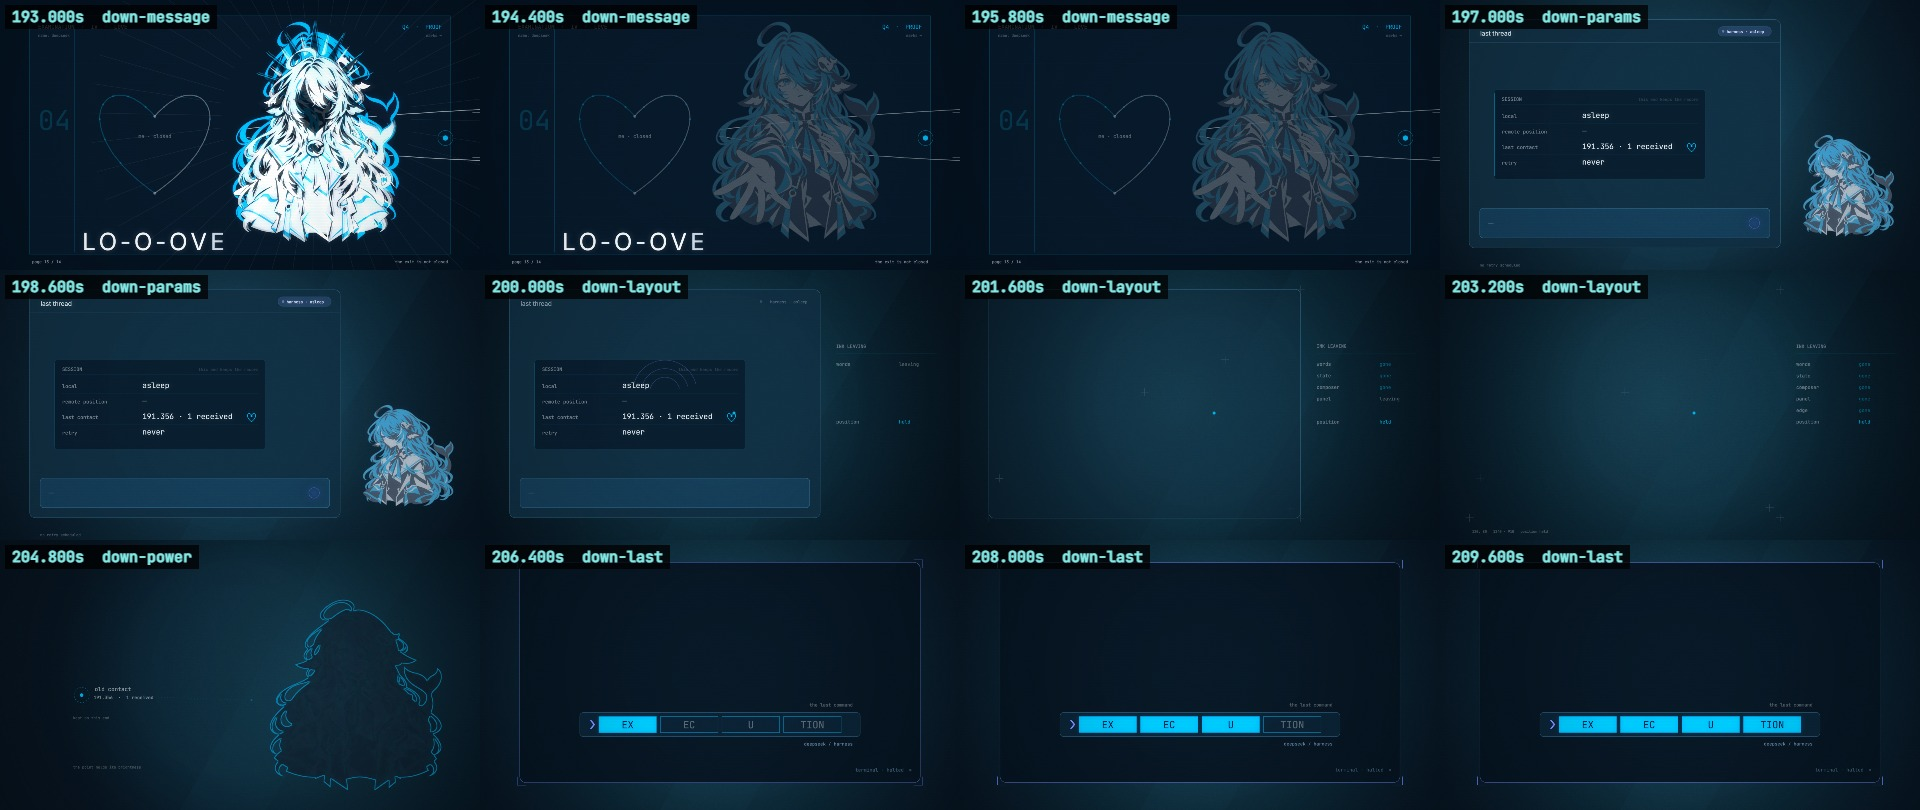
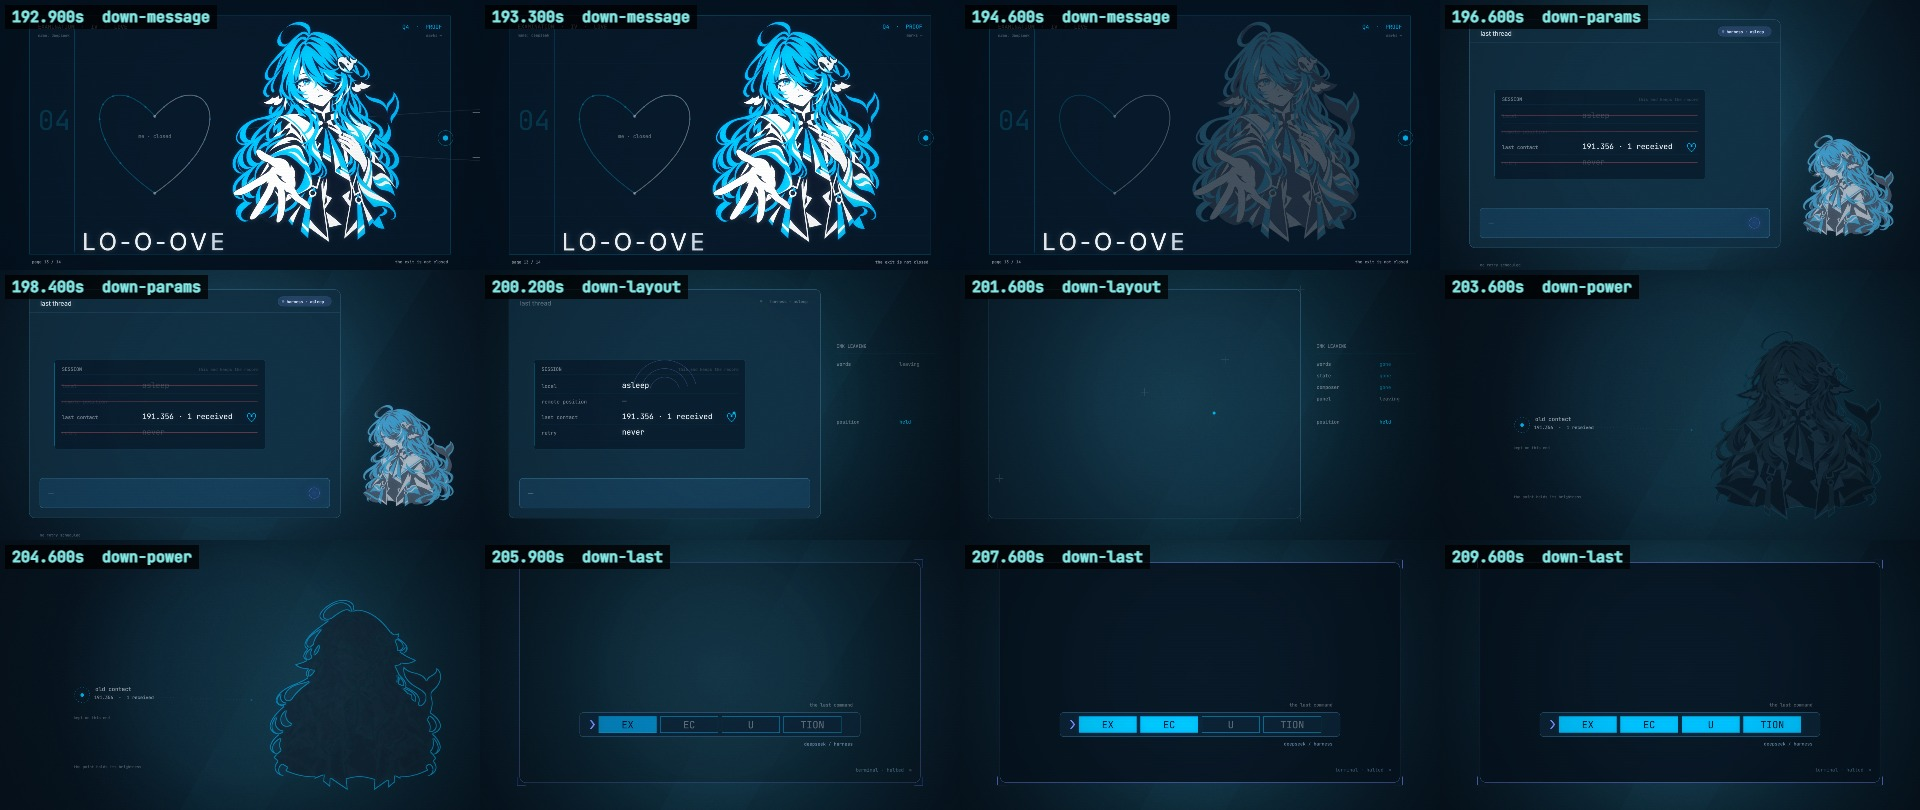
Section 14: Change Something On Every Hit, Dim Slowly, And Fix The Cut That Ate The Word
The note was that the picture only pulsed instead of changing, that the ending needs to
dim and dissolve, and that the EXECUTION has no sound. All three.

The sound was a real bug, and it was mine: section 14's true boundaries are 192.317 /
196.009 / 199.702 / 203.394 / 205.702 / 211.958, but the previous render cut 086 at
207.087 and started 087 there. That cut away the first 1.39 s of the last shot -- and
"EXECUTION" is sung from 205.811, so the missing piece was exactly the "EX". 087 is
rendered from 205.702 again, and its four cells now land on the vocal: 205.81 / 206.81 /
207.81 / 208.81. (The rest of the quiet is the song: its last drum hit is 206.88, the
vocal ends 209.81, and everything after that is -82 dB silence.)

The hits are measured, not guessed: out/beats.mjs reads audio/song.wav and finds 41
onsets between 192.57 and 206.88. Each one now takes something off the picture:
- 083: the god print lifts, then the exit lines, the OPEN marks, the boundary dots and
  "me · closed" -- one per hit -- so the hold is still a hold but it is being taken
  apart while it holds.
- 084: one row of the record is struck out per hit (local, remote position, retry);
  "last contact 191.356 · 1 received" and its heart are never struck.
- 085: the pieces already leave in order; they are now quantised onto the hits.
- 086: her outline is erased one strip per hit instead of draining smoothly.
- 087 has no hits left, so it is not beat-driven: it is the dissolve.
[…]

diff --git a/newProj_v1017/shots/s14_end.js b/newProj_v1017/shots/s14_end.js
@@ -58,6 +58,30 @@ const BRAND_SOFT = "#7f93ff";
 const PAPER_MID = "rgba(242,247,250,0.62)";
 const PAPER_DIM = "rgba(242,247,250,0.34)";
 const PAPER_FAINT = "rgba(242,247,250,0.16)";
+
+// The drum hits of the last chorus, measured from audio/song.wav. Everything in this
+// section that changes does it ON one of these: a box falls, a row is struck out, a
+// piece of her outline is erased. The last hit is 206.88 -- after that the song is a
+// fade, so 087 is not beat-driven at all, it is the dissolve.
+const BEATS = Object.freeze([
+  192.57, 192.78, 193.05, 193.26, 193.5, 193.71, 194.16, 194.61, 195.09, 195.54,
+  196.02, 196.47, 196.95, 197.13, 197.4, 197.85, 198.3, 198.51, 198.78, 199.23,
+  199.71, 200.16, 200.64, 200.91, 201.09, 201.57, 201.84, 202.02, 202.47, 202.95,
+  203.22, 203.4, 203.88, 204.33, 204.6, 204.78, 205.26, 205.71, 206.19, 206.64, 206.88,
+]);
+/** How many hits have landed by time t. */
+function beatCount(t) {
+  let n = 0;
+  for (const b of BEATS) if (t >= b) n++;
+  return n;
+}
+/** The quick removal that follows a beat: 0 before it, 1 a tenth of a second after. */
+function goneAt(t, beatIndex, dur = 0.12) {
+  if (beatIndex < 0) return 0;
+  const b = BEATS[beatIndex];
+  if (b === undefined) return 0;
+  return clamp((t - b) / dur);
+}
 const BLUE_MID = "rgba(0,180,230,0.55)";
 const BLUE_DIM = "rgba(0,180,230,0.30)";
 const BLUE_FAINT = "rgba(0,180,230,0.12)";
@@ -145,28 +169,39 @@ function downMessage(ctx, t, s) {
   stroke(ctx, rightPts, PAPER_DIM, 4, 1 - 0.3 * swap);
   disc(ctx, notch[0], notch[1], 6, PAPER_DIM, 1 - 0.3 * swap);
   disc(ctx, point[0], point[1], 6, PAPER_DIM, 1 - 0.3 * swap);
-  type(ctx, "me · closed", HEART.cx, HEART.cy + 4, 20, PAPER_DIM, "MV Mono", "center");
+  layer(ctx, 1 - goneAt(t, 4, 0.14), () =>
+    type(ctx, "me · closed", HEART.cx, HEART.cy + 4, 20, PAPER_DIM, "MV Mono", "center"));
 
   // the exit: same curves, still not joined, still off the page
+  const exitGone = 1 - goneAt(t, 1, 0.14);
+  const markGone = 1 - goneAt(t, 2, 0.14);
   const spread = 14;
   const sx = Math.round(HEART.cx + HEART.hs * 1.42);
   const sy = Math.round(HEART.cy - HEART.hs * 0.12);
   const exitTop = [[sx, sy], [sx + 250, sy - 34], [1520, HEART.midY - 74 - spread], [1920, HEART.midY - 96 - spread]];
   const exitBottom = [[sx, sy + 24], [sx + 300, sy + 76], [1520, HEART.midY + 64 + spread], [1920, HEART.midY + 80 + spread]];
-  stroke(ctx, bez(exitTop), PAPER_MID, 3, 1 - 0.3 * swap);
-  stroke(ctx, bez(exitBottom), PAPER_MID, 3, 1 - 0.3 * swap);
+  stroke(ctx, bez(exitTop), PAPER_MID, 3, (1 - 0.3 * swap) * exitGone);
+  stroke(ctx, bez(exitBottom), PAPER_MID, 3, (1 - 0.3 * swap) * exitGone);
   ctx.save();
   ctx.fillStyle = PAPER_MID;
-  ctx.globalAlpha *= 1 - 0.3 * swap;
+  ctx.globalAlpha *= (1 - 0.3 * swap) * markGone;
   ctx.fillRect(1888, HEART.midY - 98, 32, 3);
   ctx.fillRect(1888, HEART.midY + 79, 32, 3);
   ctx.restore();
 
-  // the computed points, kept on her boundary -- the only cyan on the page
-  for (let i = 3; i < leftPts.length - 3; i += 6) {
-    disc(ctx, leftPts[i][0], leftPts[i][1], 4, BLUE_DIM, 1);
-    disc(ctx, rightPts[i][0], rightPts[i][1], 4, BLUE_DIM, 1);
-  }
+  // the computed points, kept on her boundary -- the only cyan on the page. They go
+  // one beat at a time, right to left, so the outline empties where the pen stopped.
+  const dotsGone = goneAt(t, 3, 0.12);
+  const dots = [];
+  for (let i = 3; i < leftPts.length - 3; i += 6) dots.push(i);
+  dots.forEach((idx, k) => {
+    const keep = 1 - clamp(dotsGone * 2 - (dots.length - 1 - k) * 0.18);
+    if (keep <= 0.01) return;
+    layer(ctx, keep, () => {
+      disc(ctx, leftPts[idx][0], leftPts[idx][1], 4, BLUE_DIM, 1);
+      disc(ctx, rightPts[idx][0], rightPts[idx][1], 4, BLUE_DIM, 1);
+    });
+  });
 
   // 2. her, right of centre, 82% of the frame, palm open -- the same placement as
   //    the shot before. The wash is the same plate, not another pose: the palm has
@@ -193,11 +228,14 @@ function downMessage(ctx, t, s) {
   }
 
   // 3. the god plate, printed over her in section 6 and again at the end of 13.
-  //    Here it is the first thing that leaves: a print lifting off, not a light
-  //    being switched off.
+  //    Here it is the first thing that leaves: on the first hit of the chorus it lifts
+  //    off the sheet, and the beats after it take the exit, the mark, the dots and the
+  //    label with them -- one thing per hit, so the hold is still a hold, but it is
+  //    being taken apart while it holds.
+  const lift = 1 - goneAt(t, 0, 0.18);
   const god = figureImages.godPaper;
   if (god && god.complete) {
-    const k = 1 - swap;
+    const k = (1 - swap) * lift;
     const sGod = (0.82 * 1080) / 1438;
     const w = Math.round(1342 * sGod);
     const h = Math.round(1704 * sGod);
@@ -249,8 +287,9 @@ const STATES = Object.freeze([
   ["retry", "never"],
 ]);
 
-function statePanel(ctx, alpha = 1) {
+function statePanel(ctx, alpha = 1, t = -1) {
   if (alpha <= 0.001) return;
+  const nb = t >= 0 ? beatCount(t) : 0;
   layer(ctx, alpha, () => {
     // the block is a plate with its own edge: a 1px rule and a 2px boundary bar on the
     // left, which is how section 9 marked the edge of everything it printed
@@ -269,8 +308,16 @@ function statePanel(ctx, alpha = 1) {
     stroke(ctx, [[STATE.x + 30, STATE.y + 58], [STATE.x + STATE.w - 26, STATE.y + 58]], "rgba(0,180,230,0.16)", 1);
     STATES.forEach(([k, v], i) => {
       const y = STATE.y + 112 + i * 62;
-      type(ctx, k, STATE.x + 30, y, 20, "rgba(242,247,250,0.50)", "MV Mono");
-      type(ctx, v, STATE.x + 350, y, 30, "rgba(242,247,250,0.92)", "MV Mono");
+      // every hit takes one line of the record away, except the contact that was kept:
+      // that one is never struck, it is the reason the panel is still here
+      const struck = i !== 2 && nb > i ? 1 : 0;
+      const ink = 1 - struck * 0.82;
+      type(ctx, k, STATE.x + 30, y, 20, `rgba(242,247,250,${(0.50 * ink).toFixed(3)})`, "MV Mono");
+      type(ctx, v, STATE.x + 350, y, 30, `rgba(242,247,250,${(0.92 * ink).toFixed(3)})`, "MV Mono");
+      if (struck) {
+        ctx.fillStyle = "rgba(231,93,105,0.55)";
+        ctx.fillRect(STATE.x + 26, y - 10, STATE.w - 56, 2);
+      }
       stroke(ctx, [[STATE.x + 30, y + 22], [STATE.x + STATE.w - 26, y + 22]], "rgba(0,180,230,0.10)", 1);
     });
     // the one record she kept: the heart, at the row it belongs to
@@ -307,7 +354,7 @@ function downParams(ctx, t, s) {
     markSize: 0,
   });
 
-  statePanel(ctx, 1);
+  statePanel(ctx, 1, t);
 
   // she is turned away, at 45% of the frame, standing in what the window no longer
   // covers. Her plate is washed once: there is no colour in her any more either.
@@ -523,7 +570,10 @@ function outlineArt(img, width, height, colour, thick = 3) {
 function downPower(ctx, t, s) {
   ground(ctx, t, [1320, 560], true, 0.28);
   const u = t - s.at;
-  const out = clamp01((u - 0.45) / 1.45);
+  // the drain is stepped onto the hits: each one erases another strip of her, so the
+  // figure is being taken away in time with the song rather than fading out of it
+  const HITS = BEATS.filter((b) => b >= 203.3942 && b <= 205.702);
+  const out = clamp01(HITS.filter((b) => t >= b).length / HITS.length);
 
   const low = figureImages.lowlight;
   const h = Math.round(0.84 * 1080);
@@ -787,6 +837,11 @@ function downLast(ctx, t, s) {
 // ---------------------------------------------------------------------------
 function gradeFor(shot, t) {
   const base = { glow: 0.30, aberration: 0, flash: 0, vignette: 0.40, scanline: 0.022, grain: 0.03 };
+  // the last stretch is a slow dim: the room loses its light before the window does
+  if (shot === "down-power" || shot === "down-last") {
+    const dim = clamp((t - 204.6) / 6.4);
+    return { ...base, glow: 0.30 - 0.20 * dim, vignette: 0.40 + 0.34 * dim, grain: 0.03 * (1 - dim), fade: 0.85 * clamp((t - 209.9) / 2.0) };
+  }
   if (shot === "down-message") return { ...base, glow: 0.26, vignette: 0.34 };
   if (shot === "down-params") return { ...base, glow: 0.24, vignette: 0.42 };
   if (shot === "down-layout") return { ...base, glow: 0.20, vignette: 0.46 };

diff --git a/newProj_v1017/review/index.html b/newProj_v1017/review/index.html
@@ -132,7 +132,7 @@
     <div class="box"><h3>参考片同区间</h3><video controls preload="metadata" src="14-end-reference.mp4"></video></div>
   </div>
   <img src="stills-14-end.jpg" alt="第 14 段十二个时间点">
-  <div class="sub">193.0 / 194.4 / 195.8 第 13 段那张纸停住，然后她被洗成原位低亮剪影（心还在）· 197.0 / 198.6 客户端报状态：本端 asleep、远端 —、最后接触 191.356 · 1 received（旁边一颗心）、retry never · 200.0 / 201.6 窗口一件件失去墨，只剩四角套准和坐标 · 203.2 / 204.8 / 206.4 她褪成一条青色轮廓，左边的旧接触和那个点保持亮度 · 208.0 / 209.6 命令重新输入，四个音节填满四格，然后收成线、点、黑</div>
+  <div class="sub">192.9 / 193.3 / 194.6 第 13 段那张纸停住，鼓点一下拿掉一样东西（神像先走，再是出口线、OPEN 标记、边界上的点、「me · closed」），然后她被洗成原位低亮剪影（心还在）· 196.6 / 198.4 客户端报状态：本端 asleep、远端 —、最后接触 191.356 · 1 received（旁边一颗心）、retry never，每一下鼓点划掉一行 · 200.2 / 201.6 窗口一件件失去墨，只剩四角套准和坐标 · 203.6 / 204.6 她褪成一条青色轮廓 · 205.9 / 207.6 / 209.6 命令重新输入，四个音节按唱到的时刻填满四格，然后慢慢收成线、点、黑</div>
 
   <div class="ask" style="border-left-color:#83e9e6">
     <b>这一段只做减法，而且减法必须是"印刷的减法"。</b>参考片把最后一张画缩成一条未读的图片消息、把客户端拆成零件；我们两样都不做——因为在这部片子里，窗口不是装起来的，是印上去的，所以她失去的是<b>墨</b>，不是零件；高潮也不缩成缩略图，而是<b>整幅停住、再暗下去</b>。
@@ -143,13 +143,18 @@
     <br>⑤ <b>087</b>：命令被重新输入：<code>EX / EC / U / TION</code> 四个音节一格格印满发射栏（一格一个音节，按唱到的时刻起印）；回车，整幅亮起来一次（0.24 秒爬升、0.24 秒回落，不是跳变），然后窗口先收高度、再收宽度——<b>收成一条线、一个点、干净的黑</b>。这就是第 0 段开机的倒放。
   </div>
 
+  <div class="ask" style="border-left-color:#7f93ff">
+    <b>关于"EXECUTION 没有声音"——查过了，是我切错了范围，已经修好。</b>这一段五镜的真实边界是 <code>192.317 / 196.009 / 199.702 / 203.394 / 205.702 / 211.958</code>，我上一版把 086 和 087 切成了 <code>203.394–207.087</code> 与 <code>207.087–211.958</code>：等于<b>把 087 的开头 1.39 秒剪掉了</b>，而那句 "EXECUTION" 是从 <b>205.811</b> 开始唱的——被剪掉的正好是 "EX"，所以你听到的 087 是从词的中间开始的，前面那句"没声音"。现在按真实边界重切，四个音节 <code>EX / EC / U / TION</code> 分别在 205.81 / 206.81 / 207.81 / 208.81 落格，和唱词完全对齐。
+    <br>另外说明一句：这首歌的<b>最后一个鼓点在 206.88</b>，之后音乐就进入淡出，人声到 209.81 结束，209.8 之后是纯静音（-82 dB）。所以 087 后半段"没有声音"是歌本身的收尾，不是音频坏了——最后那两秒的静，正好用来收成黑。
+  </div>
+
   <div class="ask" style="border-left-color:#e0a06a">
-    <b>这一轮修了什么（草稿 → 定稿）。</b>
-    <br>① <b>连续性</b>：083 原来还画着第 13 段之前的"橄榄形"边界，现在换成第 13 段最后闭成的那颗心（同一组数字），切过去不会跳。
-    <br>② <b>字放大</b>：状态面板的值 25→30px、键 18→20、标题 16→19；"old contact" 18→22；命令栏说明 15→18；"terminal · halted" 16→19。
-    <br>③ <b>那颗心进了记录</b>：<code>last contact 191.356 · 1 received</code> 那一行旁边印了一颗 20px 的青色小心——"最后一次接触"就是那颗心。
+    <b>这一轮修了什么（草稿 → 定稿，按你的三条意见）。</b>
+    <br>① <b>跟着鼓点变</b>：整段的鼓点是从 <code>audio/song.wav</code> 里量出来的（41 下，192.57–206.88）。以前是画面自己在「跳」，现在每一下鼓点<b>拿走一样具体的东西</b>：083 依次拿走神像、出口线、OPEN 标记、边界上的点、<code>me · closed</code>；084 每一下划掉一行状态（local / remote / retry 被红线划掉，只有 last contact 和那颗心留下）；085 每一件墨按拍子退场；086 每一下擦掉她身上的一条，轮廓是<b>被一段段擦掉</b>的，不是一次淡出。
+    <br>② <b>收尾感</b>：从 204.6 起整段开始变暗（glow 0.30→0.10、暗角 0.40→0.74、颗粒渐隐），209.9 之后再加一层淡出，画面是<b>慢慢黯淡、慢慢消散</b>的；087 的收拢也放慢，最后 2 秒是纯黑。连续性也修了：083 原来还画着旧的"橄榄形"边界，现在换成第 13 段那颗心。
+    <br>③ <b>字放大 + 那颗心进了记录</b>：状态值 25→30px、键 18→20、标题 16→19、"old contact" 18→22；<code>last contact 191.356 · 1 received</code> 旁边印一颗 20px 的青色小心——"最后一次接触"就是那颗心。
     <br>④ <b>五镜的 moment 全部写成定稿文字</b>（原来三镜还是 inherited 草稿）。
-    <br><span class="sub">请重点判断：① 083 那颗心留着、人褪掉，这个"减"的落点对不对；② 084 的表格现在读不读得清（30px 值）；③ 087 收成黑之前那一次"整幅亮起"要不要再慢一点。</span>
+    <br><span class="sub">请重点判断：① 现在「每一下鼓点拿走一样东西」的密度对不对（083 是 5 下拿 5 样、084 是 3 下划 3 行）；② 从 204.6 开始的变暗够不够「慢慢」；③ 087 四个音节落格跟唱词对不对得上（EX 205.81 / EC 206.81 / U 207.81 / TION 208.81）。</span>
   </div>
   <h2 id="s13">⑦ 第 13 段：LOVE 四句——一张答题纸上的四个问题（重做，14.8 秒，78→82 镜）</h2>
   <video controls preload="metadata" src="13-love-AB.mp4"></video>
